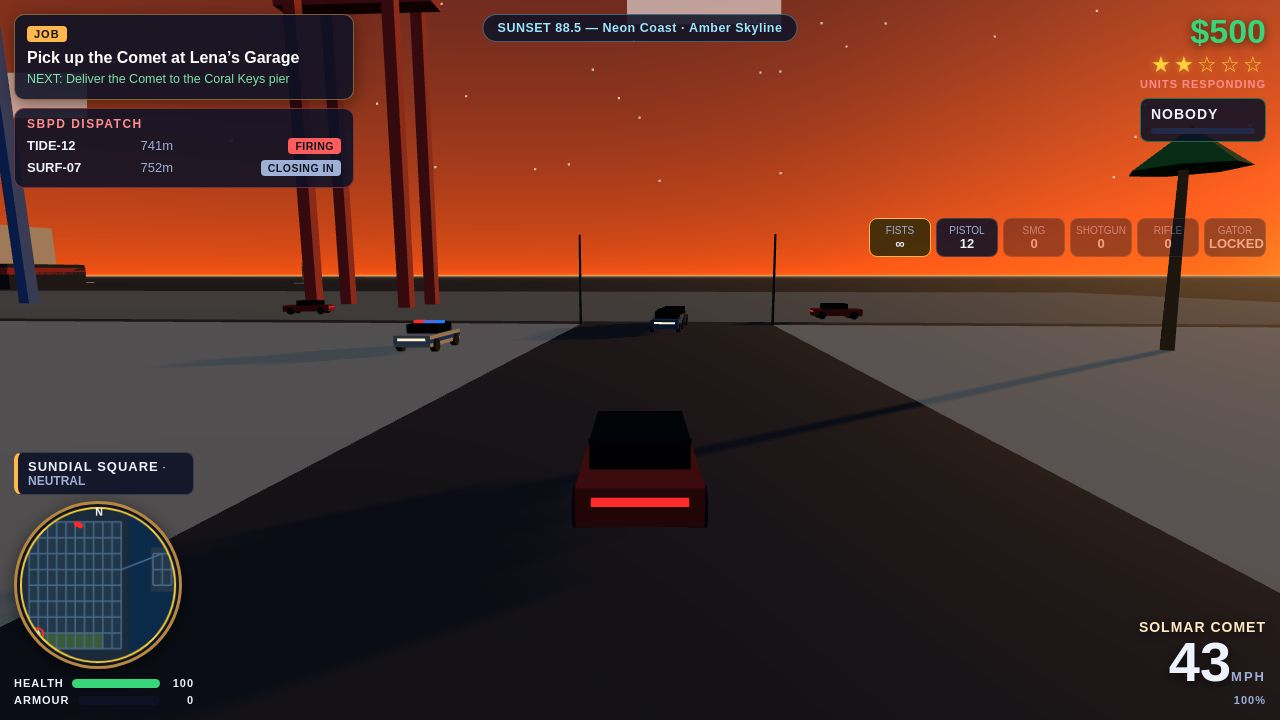
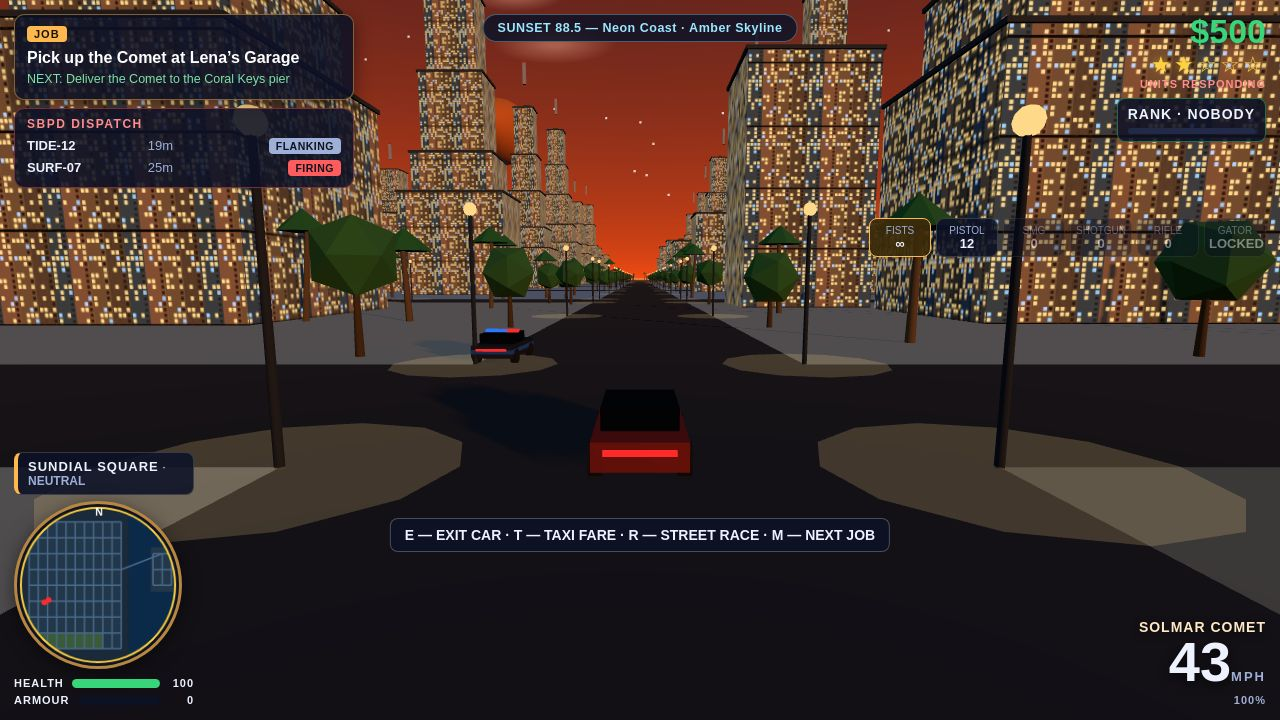
SOLMAR BAY: densify city — 2-3x buildings, 64 NPCs, 640 lamps + light pools, ~650 street trees, layered fireball, soft clouds, dispatch distance fix

diff --git a/game/src/world/cityBuilder.js b/game/src/world/cityBuilder.js
@@ -251,19 +251,21 @@ export function buildCity(scene, plan, collision, rng) {
       if (style === 'glass') {
         const bw = sr.range(20, 30);
         const bd = sr.range(20, 30);
-        const h1 = sr.range(8, 14);
+        const h1 = sr.range(14, 26);
         addBuilding(cx, cz, bw, bd, h1, 'glass', sr);
         let w = bw * 0.78; let d = bd * 0.78; let y = h1;
-        const tiers = sr.int(2, 3);
+        const tiers = sr.int(3, 4);
         for (let t = 0; t < tiers; t++) {
-          const th = sr.range(10, 18);
+          const th = sr.range(12, 22);
           addBuilding(cx, cz, w, d, y + th / 2 + 0.15, 'glass', sr);
           y += th; w *= 0.78; d *= 0.78;
         }
+        const w2 = sr.range(14, 20);
+        addBuilding(cx + 26, cz - 22, w2, w2, sr.range(18, 34), 'glass', sr);
         cb.add(bg, m4(cx, y + 4, cz, 0, 1.2, 8, 1.2), '#c8ccd8');
         cb.add(bg, m4(cx, y + 8.5, cz, 0, 0.8, 0.8, 0.8), '#ff3b3b');
       } else if (style === 'deco') {
-        const n = sr.int(1, 2);
+        const n = sr.int(2, 3);
         for (let i = 0; i < n; i++) {
           const w = sr.range(14, 22); const d = sr.range(12, 18); const h = sr.range(12, 34);
           const ox = (i - (n - 1) / 2) * 24;
@@ -271,30 +273,29 @@ export function buildCity(scene, plan, collision, rng) {
           cb.add(bg, m4(cx + ox, h + 1, cz, 0, 1, 4, w * 0.4), sr.pick(STYLE_COLORS.deco));
         }
       } else if (style === 'shop') {
-        const n = sr.int(2, 3);
+        const n = sr.int(4, 5);
         for (let i = 0; i < n; i++) {
           const w = sr.range(10, 16); const d = sr.range(9, 13); const h = sr.range(6, 12);
-          addBuilding(cx + (i - 1) * 20, cz + (i % 2) * 8 - 4, w, d, h, 'shop', sr);
-          cb.add(bg, m4(cx + (i - 1) * 20, 1.2, cz + d / 2 + 1, 0, w * 0.8, 0.3, 1.6), sr.pick(STYLE_COLORS.shop));
+          addBuilding(cx + (i - (n - 1) / 2) * 14, cz + (i % 2) * 8 - 4, w, d, h, 'shop', sr);
+          cb.add(bg, m4(cx + (i - (n - 1) / 2) * 14, 1.2, cz + d / 2 + 1, 0, w * 0.8, 0.3, 1.6), sr.pick(STYLE_COLORS.shop));
         }
       } else if (style === 'villa') {
-        for (let i = 0; i < 4; i++) {
-          const ox = (i % 2 - 0.5) * 30; const oz = (Math.floor(i / 2) - 0.5) * 30;
+        for (let i = 0; i < 6; i++) {
+          const ox = (i % 3 - 1) * 22; const oz = (Math.floor(i / 3) - 0.5) * 24;
           addBuilding(cx + ox, cz + oz, sr.range(9, 13), sr.range(9, 13), sr.range(5, 8), 'villa', sr);
           cb.add(bg, m4(cx + ox, 0.4, cz + oz + 10, 0, 5, 0.5, 3), '#4a9a9a');
         }
       } else if (style === 'warehouse') {
-        if (sr.chance(0.5)) {
-          addBuilding(cx, cz, sr.range(24, 34), sr.range(16, 22), sr.range(8, 13), 'warehouse', sr);
-        } else {
+        addBuilding(cx, cz, sr.range(24, 34), sr.range(16, 22), sr.range(10, 16), 'warehouse', sr);
+        {
           const cols = ['#c95a3a', '#3a7ac9', '#3a9a5a', '#c9a83a', '#8a5ac9', '#c97a3a'];
           for (let i = 0; i < 8; i++) {
             if (sr.chance(0.3)) continue;
             const stack = sr.int(1, 3);
             for (let s = 0; s < stack; s++) {
-              cb.add(bg, m4(cx - 20 + (i % 4) * 13, 1.4 + s * 2.8, cz - 12 + Math.floor(i / 4) * 14, 0, 12, 2.6, 2.6), cols[i % 6]);
+              cb.add(bg, m4(cx - 20 + (i % 4) * 13, 1.4 + s * 2.8, cz + 16 + Math.floor(i / 4) * 14, 0, 12, 2.6, 2.6), cols[i % 6]);
             }
-            collision.registerBox(cx - 26 + (i % 4) * 13, cz - 13.3 + Math.floor(i / 4) * 14, cx - 14 + (i % 4) * 13, cz - 10.7 + Math.floor(i / 4) * 14, 8, 'solid');
+            collision.registerBox(cx - 26 + (i % 4) * 13, cz + 14.7 + Math.floor(i / 4) * 14, cx - 14 + (i % 4) * 13, cz + 17.3 + Math.floor(i / 4) * 14, 8, 'solid');
           }
         }
       }
@@ -339,7 +340,7 @@ export function buildCity(scene, plan, collision, rng) {
   for (let bx = 0; bx < 10; bx++) {
     for (let bz = 0; bz < 8; bz++) {
       const d = plan.DISTRICTS[plan.districtOfBlock(bx, bz)];
-      const n = Math.round(6 * d.palms);
+      const n = Math.round(16 * d.palms);
       for (let i = 0; i < n; i++) {
         const cx = plan.X0 + bx * plan.SPACING + palmRng.range(10, 80);
         const cz = plan.Z0 + bz * plan.SPACING + palmRng.range(10, 80);
@@ -374,26 +375,42 @@ export function buildCity(scene, plan, collision, rng) {
     group.add(trunks, crowns);
   }
   {
+    const tr = rng.fork('trees');
+    const sp = [];
+    for (let c = 0; c < 11; c++) for (let z = plan.Z0 + 30; z < plan.Z0 + 720; z += 45) for (const s of [-11, 11]) sp.push([plan.X0 + c * 90 + s, z]);
+    for (let r = 0; r < 9; r++) for (let x = plan.X0 + 30; x < plan.X0 + 900; x += 45) for (const s of [-11, 11]) sp.push([x, plan.Z0 + r * 90 + s]);
+    const kp = sp.filter(([x, z]) => !collision.solidAt(x, z, 1));
+    const dm = new THREE.Object3D();
+    const tk = new THREE.InstancedMesh(new THREE.CylinderGeometry(0.16, 0.26, 3, 5), new THREE.MeshStandardMaterial({ color: 0x5a4028, roughness: 1 }), kp.length);
+    const cr = new THREE.InstancedMesh(new THREE.IcosahedronGeometry(2.4, 0), new THREE.MeshStandardMaterial({ color: 0x3a7a3a, roughness: 1, flatShading: true }), kp.length);
+    kp.forEach(([x, z], i) => {
+      const h = 2.6 + tr.range(0, 1.4);
+      dm.position.set(x, h / 2, z); dm.rotation.set(0, 0, 0); dm.scale.set(1, h / 3, 1); dm.updateMatrix(); tk.setMatrixAt(i, dm.matrix);
+      dm.position.set(x, h + 1.6, z); dm.rotation.set(0, tr.range(0, 6), 0); dm.scale.set(1, 1, 1); dm.updateMatrix(); cr.setMatrixAt(i, dm.matrix);
+    });
+    group.add(tk, cr);
+  }
+  {
     const lampGeo = new THREE.CylinderGeometry(0.09, 0.12, 7.4, 5);
     const lampMat = new THREE.MeshStandardMaterial({ color: 0x2a2f3a, roughness: 0.8 });
     const spots = [];
     for (let bx = 0; bx < 10; bx++) for (let bz = 0; bz < 8; bz++) {
-      for (let i = 0; i < 4; i++) {
-        spots.push({ x: plan.X0 + bx * plan.SPACING + 8 + (i % 2) * 74, z: plan.Z0 + bz * plan.SPACING + 8 + Math.floor(i / 2) * 74 });
+      for (const [ox, oz] of [[8, 8], [82, 8], [8, 82], [82, 82], [45, 8], [45, 82], [8, 45], [82, 45]]) {
+        spots.push({ x: plan.X0 + bx * plan.SPACING + ox, z: plan.Z0 + bz * plan.SPACING + oz });
       }
     }
     const lamps = new THREE.InstancedMesh(lampGeo, lampMat, spots.length);
     const dm = new THREE.Object3D();
     spots.forEach((s, i) => { dm.position.set(s.x, 3.7, s.z); dm.rotation.set(0, 0, 0); dm.scale.set(1, 1, 1); dm.updateMatrix(); lamps.setMatrixAt(i, dm.matrix); });
     group.add(lamps);
-    const glowGeo = new THREE.BufferGeometry();
-    const gp = new Float32Array(spots.length * 3);
-    spots.forEach((s, i) => { gp[i * 3] = s.x; gp[i * 3 + 1] = 7.4; gp[i * 3 + 2] = s.z; });
-    glowGeo.setAttribute('position', new THREE.BufferAttribute(gp, 3));
-    const glowMat = new THREE.PointsMaterial({ color: 0xffd98a, size: 3.2, sizeAttenuation: true, transparent: true, opacity: 0, depthWrite: false });
-    const glows = new THREE.Points(glowGeo, glowMat);
-    group.add(glows);
-    group.userData.lg = glowMat;
+    const heads = new THREE.InstancedMesh(new THREE.SphereGeometry(0.32, 8, 6), new THREE.MeshBasicMaterial({ color: 0xffd98a }), spots.length);
+    spots.forEach((s, i) => { dm.position.set(s.x, 7.4, s.z); dm.rotation.set(0, 0, 0); dm.scale.set(1, 1, 1); dm.updateMatrix(); heads.setMatrixAt(i, dm.matrix); });
+    group.add(heads);
+    const poolMat = new THREE.MeshBasicMaterial({ color: 0xffd98a, transparent: true, opacity: 0, depthWrite: false });
+    const pools = new THREE.InstancedMesh(new THREE.CircleGeometry(4, 12), poolMat, spots.length);
+    spots.forEach((s, i) => { dm.position.set(s.x, 0.05, s.z); dm.rotation.set(-Math.PI / 2, 0, 0); dm.scale.set(1, 1, 1); dm.updateMatrix(); pools.setMatrixAt(i, dm.matrix); });
+    group.add(pools);
+    group.userData.pool = poolMat;
   }
   {
     const umbRng = rng.fork('beach');
@@ -574,10 +591,10 @@ export function buildCity(scene, plan, collision, rng) {
   group.userData.ot = ot;
   group.userData.wheel = wheel;
   function update(time, nightFactor) {
-    fm.emissiveIntensity = nightFactor * 0.95;
+    fm.emissiveIntensity = 0.35 + nightFactor * 0.65;
     sm.emissiveIntensity = 0.25 + nightFactor * 0.75;
-    const lg = group.userData.lg;
-    if (lg) lg.opacity = nightFactor * 0.9;
+    const pm = group.userData.pool;
+    if (pm) pm.opacity = nightFactor * 0.22;
     ot.offset.x = (time * 0.004) % 1;
     ot.offset.y = (time * 0.002) % 1;
     wheel.rotation.z = time * 0.12;

diff --git a/game/src/world/sky.js b/game/src/world/sky.js
@@ -1,4 +1,5 @@
 import * as THREE from 'three';
+const WHITE = new THREE.Color(0xffffff);
 const KEYFRAMES = [
   [0, 0x060a1e, 0x0d1330, 0x223055, 0.25, 0.35],
   [6.5, 0x2a4a7a, 0xff9d5c, 0xffc98a, 0.7, 0.55],
@@ -55,7 +56,12 @@ export function createSky(scene, rng) {
   const starMat = new THREE.PointsMaterial({ color: 0xffffff, size: 2.2, sizeAttenuation: false, transparent: true, opacity: 0, fog: false });
   const stars = new THREE.Points(starGeo, starMat);
   scene.add(stars);
-  const cloudMat = new THREE.SpriteMaterial({ color: 0xffffff, transparent: true, opacity: 0.55, fog: false, depthWrite: false });
+  const cc = document.createElement('canvas'); cc.width = cc.height = 32;
+  const cg = cc.getContext('2d');
+  const gr = cg.createRadialGradient(16, 16, 2, 16, 16, 15);
+  gr.addColorStop(0, 'rgba(255,255,255,0.9)'); gr.addColorStop(1, 'rgba(255,255,255,0)');
+  cg.fillStyle = gr; cg.fillRect(0, 0, 32, 32);
+  const cloudMat = new THREE.SpriteMaterial({ color: 0xffffff, transparent: true, opacity: 0.4, map: new THREE.CanvasTexture(cc), fog: false, depthWrite: false });
   const clouds = [];
   for (let i = 0; i < 26; i++) {
     const s = new THREE.Sprite(cloudMat.clone());
@@ -127,6 +133,7 @@ export function createSky(scene, rng) {
       for (const c of clouds) {
         c.position.x += c.userData.speed * 0.016;
         if (c.position.x > 2000) c.position.x = -2000;
+        c.material.color.copy(k.horizon).lerp(WHITE, 0.3);
       }
       return { nightFactor, lowSun };
     },

diff --git a/game/src/characters/pedestrians.js b/game/src/characters/pedestrians.js
@@ -5,7 +5,7 @@ const PANTS = [0x2a2f3a, 0x3a3f4a, 0x5a4a3a, 0x2e4a3a, 0x4a2e3a];
 export function createPedestrianSystem(game) {
   const { plan, collision, rng, scene } = game;
   const npcs = [];
-  const MAX_NPCS = 42;
+  const MAX_NPCS = 90;
   function spawn(x, z, role = 'civilian') {
     const model = createPlayerModel({
       skin: rng.pick(SKINS),
@@ -33,7 +33,7 @@ export function createPedestrianSystem(game) {
   function civilians() { return npcs.filter((n) => n.role === 'civilian' && !n.dead); }
   function populate() {
     const p = game.player;
-    while (civilians().length < 26) {
+    while (civilians().length < 64) {
       const j = plan.nearestJunction(p.position.x + rng.range(-120, 120), p.position.z + rng.range(-120, 120));
       spawn(j.x + rng.range(-25, 25), j.z + rng.range(-25, 25));
     }
@@ -100,7 +100,7 @@ export function createPedestrianSystem(game) {
       n.model.position.set(n.position.x, plan.groundHeight(n.position.x, n.position.z), n.position.z);
       n.model.rotation.y = n.heading;
     }
-    while (civilians().length < 26) {
+    while (civilians().length < 64) {
       const j = plan.nearestJunction(p.position.x + rng.range(-120, 120), p.position.z + rng.range(-120, 120));
       spawn(j.x + rng.range(-25, 25), j.z + rng.range(-25, 25));
     }

diff --git a/game/src/combat/combat.js b/game/src/combat/combat.js
@@ -17,7 +17,12 @@ export function createCombat(game) {
     tracers.push({ line: flash, life: 0.06, isLight: true });
   }
   function explodeAt(pos, radius = 9, damage = 90) {
-    const fire = new THREE.Mesh(new THREE.SphereGeometry(2.2, 12, 10), new THREE.MeshBasicMaterial({ color: 0xffa22e, transparent: true, opacity: 0.95 }));
+    const fire = new THREE.Group();
+    [[1.6, 0xfff2a8, 0.95], [2.8, 0xff7a2e, 0.9]].forEach(([r, c, o]) => {
+      const m = new THREE.Mesh(new THREE.SphereGeometry(r, 10, 8), new THREE.MeshBasicMaterial({ color: c, transparent: true, opacity: o }));
+      m.userData.o = o;
+      fire.add(m);
+    });
     fire.position.set(pos.x, (pos.y ?? 0) + 1.2, pos.z);
     scene.add(fire);
     const light = new THREE.PointLight(0xff7a2e, 40, 40);
@@ -131,7 +136,7 @@ export function createCombat(game) {
       } else if (t.isFire) {
         const k = 1 + (0.7 - t.life) * 2.2;
         t.line.scale.set(k, k, k);
-        t.line.material.opacity = Math.max(0, t.life / 0.7);
+        for (const m of t.line.children) m.material.opacity = Math.max(0, t.life / 0.7) * m.userData.o;
       } else if (t.isLight) {
         t.line.intensity = Math.max(0, t.life * 60);
       } else {

diff --git a/game/src/ui/hud.js b/game/src/ui/hud.js
@@ -46,7 +46,7 @@ export function createHud(game) {
           return `<div class="${cls.join(' ')}"><span class="weapon-name">${w.name}</span><span class="weapon-ammo">${w.locked ? 'LOCKED' : w.ammo}</span></div>`;
         }).join('');
       }
-      if (els.respect) els.respect.textContent = game.respect.rank().name;
+      if (els.respect) els.respect.textContent = 'RANK · ' + game.respect.rank().name;
       if (els.respectBar) els.respectBar.style.width = Math.round(game.respect.progress() * 100) + '%';
       const rows = game.dispatch.rowsForHud();
       if (els.dispatch) els.dispatch.style.display = rows.length ? 'block' : 'none';

diff --git a/game/src/police/dispatch.js b/game/src/police/dispatch.js
@@ -126,8 +126,9 @@ export function createPoliceDispatch(game) {
     }
   }
   function rowsForHud() {
+    const tp = game.player.vehicle ? game.player.vehicle.position : game.player.position;
     return units.slice(0, 5).map((u) => {
-      const d = Math.round(Math.hypot(u.vehicle.position.x - game.player.position.x, u.vehicle.position.z - game.player.position.z));
+      const d = Math.round(Math.hypot(u.vehicle.position.x - tp.x, u.vehicle.position.z - tp.z));
       return { name: u.name, dist: d, tactic: u.tactic };
     });
   }
